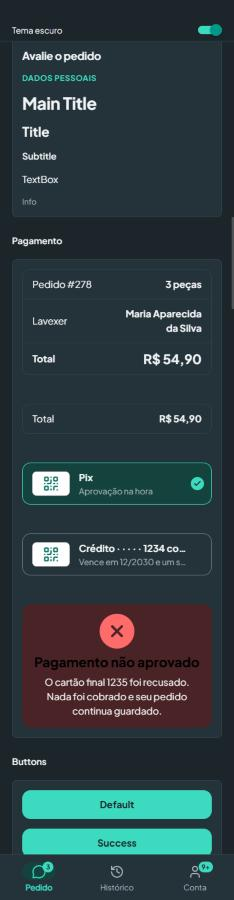
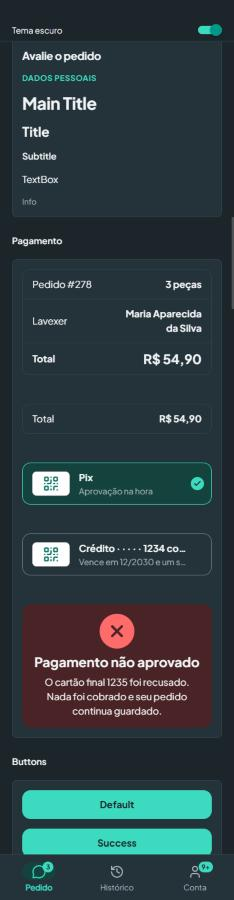
fix: teclado no tema claro e título do ErrorBox no escuro (#280)
TextArea, SearchInput e InputChat voltam a não definir keyboardAppearance
no tema claro, como na main. O título do ErrorBox usa colors.text no
escuro para não ficar preto sobre surfaceDanger.

Changed region(s): [[0.1496, 0.7156, 0.8675, 0.7467]]

diff --git a/src/components/ErrorBox/ErrorBox.tsx b/src/components/ErrorBox/ErrorBox.tsx
@@ -13,7 +13,7 @@ export interface ErrorBoxProps {
 const C = Constants.styles
 
 export const ErrorBox: React.FC<ErrorBoxProps> = ({ title, details }) => {
-  const { colors } = useLavexTheme()
+  const { mode, colors } = useLavexTheme()
   const regular = useResolvedFontFamily(C.fontFamily.REGULAR)
   const bold = useResolvedFontFamily(C.fontFamily.BOLD)
 
@@ -22,7 +22,7 @@ export const ErrorBox: React.FC<ErrorBoxProps> = ({ title, details }) => {
       <View style={[styles.badge, { backgroundColor: colors.danger }]}>
         <IconClose size={32} color={colors.surfaceDanger} strokeWidth={3} />
       </View>
-      <Text style={[styles.title, { fontFamily: bold, fontWeight: bold ? "normal" : "700" }]}>{title}</Text>
+      <Text style={[styles.title, { color: mode === "dark" ? colors.text : C.color.BLACK, fontFamily: bold, fontWeight: bold ? "normal" : "700" }]}>{title}</Text>
       <Text style={[styles.details, { color: colors.text, fontFamily: regular, fontWeight: regular ? "normal" : "400" }]}>{details}</Text>
     </View>
   )
@@ -44,7 +44,6 @@ const styles = StyleSheet.create({
     justifyContent: "center",
   },
   title: {
-    color: C.color.BLACK,
     textAlign: "center",
     fontSize: C.fontSize.TITLE,
     lineHeight: C.lineHeight.TITLE,

diff --git a/src/components/TextArea/TextArea.tsx b/src/components/TextArea/TextArea.tsx
@@ -57,7 +57,7 @@ export const TextArea: React.FC<TextAreaProps> = ({
         value={value}
         placeholder={placeholder}
         placeholderTextColor={C.text.PLACEHOLDER}
-        keyboardAppearance={mode === "dark" ? "dark" : "light"}
+        keyboardAppearance={mode === "dark" ? "dark" : undefined}
         onChangeText={(text) => {
           if (maxLength && text.length > maxLength) return
           onChange(text)

diff --git a/src/components/SearchInput/SearchInput.tsx b/src/components/SearchInput/SearchInput.tsx
@@ -51,7 +51,7 @@ export const SearchInput: React.FC<SearchInputProps> = ({
         onChangeText={onChange}
         placeholder={placeholder}
         placeholderTextColor={C.text.PLACEHOLDER}
-        keyboardAppearance={mode === "dark" ? "dark" : "light"}
+        keyboardAppearance={mode === "dark" ? "dark" : undefined}
         autoFocus={autoFocus}
         returnKeyType="search"
         onSubmitEditing={onSubmit}

diff --git a/src/components/InputChat/InputChat.tsx b/src/components/InputChat/InputChat.tsx
@@ -35,7 +35,7 @@ export function InputChat({
         onChangeText={onChange}
         placeholder={placeholder}
         placeholderTextColor={C.text.PLACEHOLDER}
-        keyboardAppearance={mode === "dark" ? "dark" : "light"}
+        keyboardAppearance={mode === "dark" ? "dark" : undefined}
         returnKeyType="send"
         onSubmitEditing={handleSend}
         style={[

diff --git a/CONTEXT.md b/CONTEXT.md
@@ -225,7 +225,7 @@ Check e número sobre `accent` (`CheckboxListItem`, `Timeline`, `PaymentButton`,
 | `Button` | texto branco em `danger` e na confirmação |
 | `Tag` | `warning-outline`: `#FFF4E5` / `#8A5A00` |
 | `StatusBanner` | `info`: fundo `#EEFBF8`, ícone `#0B7566`, texto `#2D3B42`. `dark`: ícone `#3CDBC0` |
-| `ErrorBox` | título `#000000` |
+| `ErrorBox` | título `#000000` no claro. No escuro o título usa `text`, para não ficar preto sobre `surfaceDanger` |
 | `EmptyState` | círculo `#E6F7F6` |
 | `SwipeableListItem` | trilho de excluir `#DC2626`, lixeira branca |
 | `IconButtonLarge` | caixa do ícone `#F4F4F5`, ícone `#2D3B42` |
@@ -1574,7 +1574,7 @@ Se a mudança atravessa repositórios (ex.: componente novo consumido pelo `app-
 - `LavexThemeProvider` (`mode: "light" | "dark"`, padrão `"light"`) e `useLavexTheme()`. Tokens em `src/theme/tokens.ts`. Ver "Tema" em §5.
 - Sem provider, as cores são as de antes. Com `mode="dark"`, leem o tema: textos (`Heading`, `Text`, `Info`, `Title`, `Subtitle`, `MainTitle`), campos (`Input` e derivados, `TextArea`, `Select`, `SearchInput`, `Toggle`), `Button`, `NavigationBar`, `TopHeader`, `CountBadge`, `Tag`, `Modal`, `Divider`, `Card`, `List`, `SimpleTable`, `EmptyState`, `StatusBanner`, `ErrorBox`, `RadioCard`, `CheckboxListItem`, `QuantityStepper`, `SwipeableListItem`, `IconButtonLarge`, `ProfileAvatar`, `ShortStarRating`, `DarkInformationBox`, `DarkInformationBoxLarge`, `Timeline`, `ImageUploader`, `PhotoSkeleton`, `PaymentButton`, `Message`, `InputChat` e os ícones. `Grid`, `UserCardBio` e `UserInfo` herdam pelos filhos.
 - `darkMode` fica na assinatura e é ignorada. `Text`, `Info`, `Title`, `Card`, `Modal`, `Divider`, `NavigationBar`, `Select`, `Toggle` e `ProfileAvatar` deixaram de ler `Constants.styles.theme.dark`.
-- `Input`, `TextArea`, `SearchInput` e `InputChat` pedem `keyboardAppearance="dark"` no tema escuro.
+- `Input`, `TextArea`, `SearchInput` e `InputChat` pedem `keyboardAppearance="dark"` no tema escuro. No claro, `Input` segue com `"light"` e os outros três seguem sem a prop (o teclado acompanha o sistema), como antes.
 - `IconTruck`: wrapper de `lucide-react-native/icons/truck`, exportado no `index.ts`.
 - `IconButtonLarge`: `icon` aceita `message-square-text`, `qr-code` e `truck`.
 - Ícones: sem `color`/`fill`, a cor é `colors.text` (`useIconColor`).
